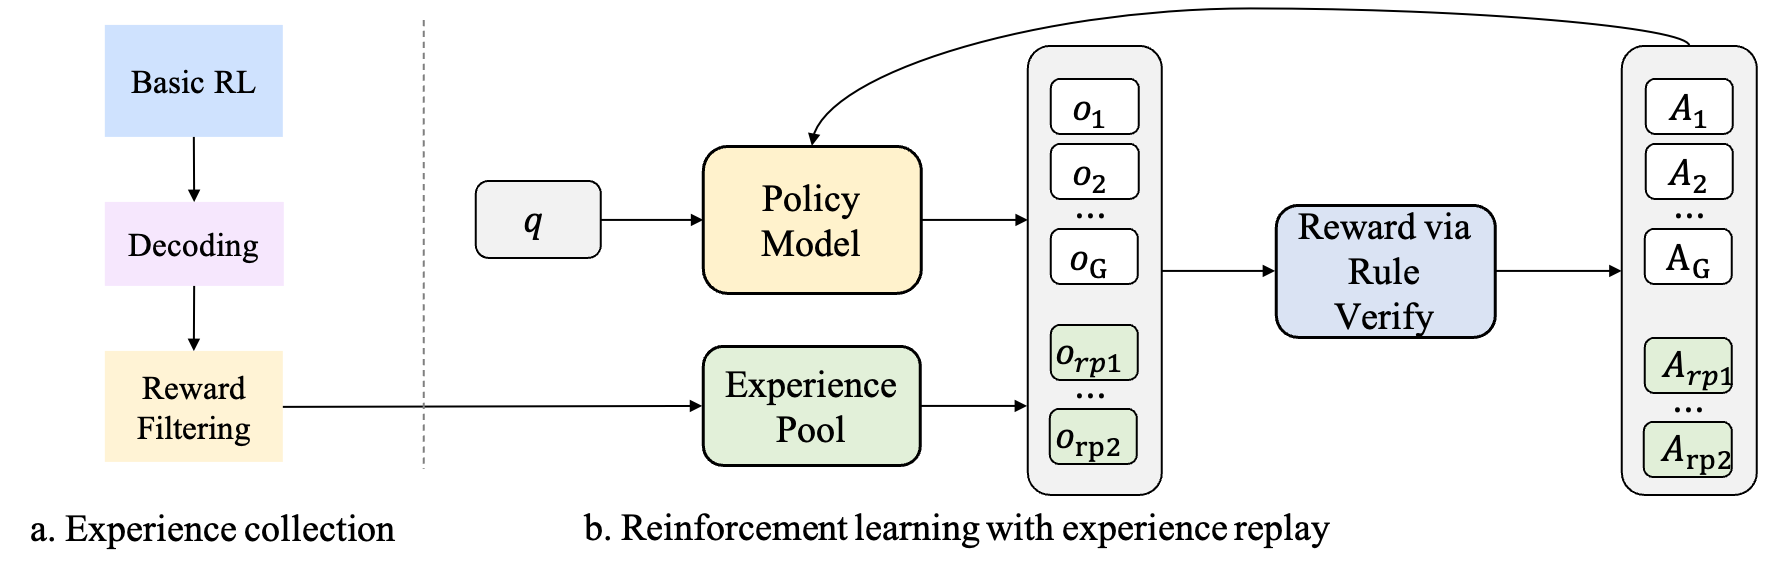
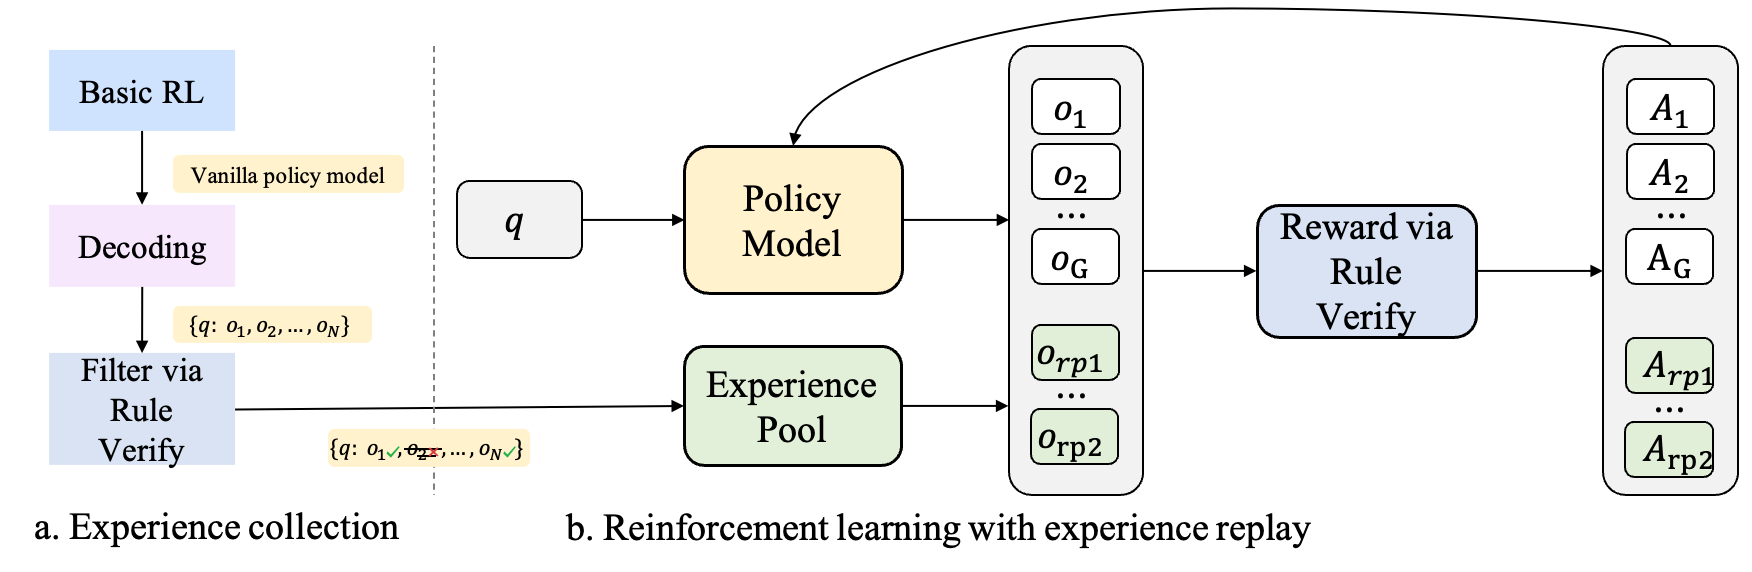
init readme

diff --git a/README.md b/README.md
@@ -4,6 +4,8 @@
   <img src="image/trip_demo.png" width="50%">
 </p>
 
+> RL training is an energy‑intensive journey. Leveraging collected experience, RLEP rapidly converges on promising reasoning paths and achieves stronger final results.
+
 
 # Summary 
 *RLEP*—**R**einforcement **L**earning with **E**xperience re**P**lay—first collects verified successful trajectories and then replays them during subsequent training. At every update step, the policy is optimized on mini‑batches that blend newly generated rollouts with these replayed successes. By replaying high‑quality examples, RLEP steers the model away from fruitless exploration, focuses learning on promising reasoning paths, and delivers both faster convergence and stronger final performance.
